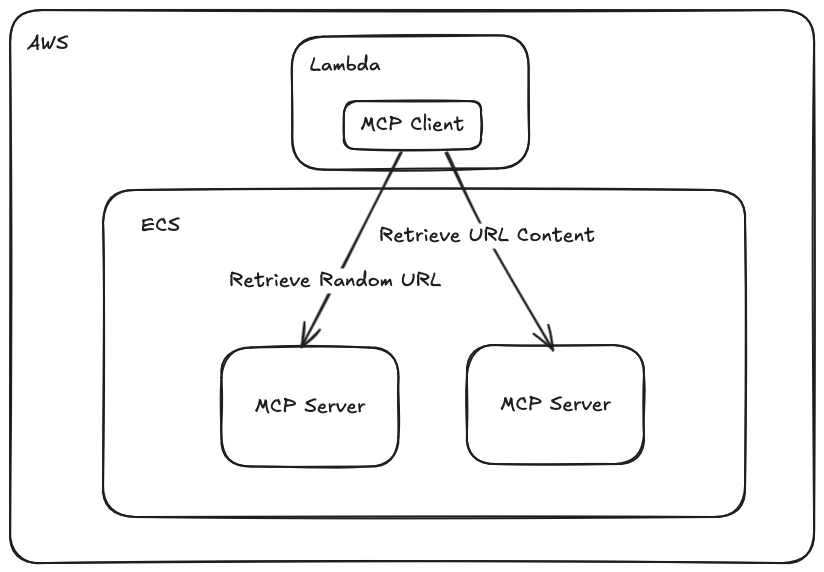
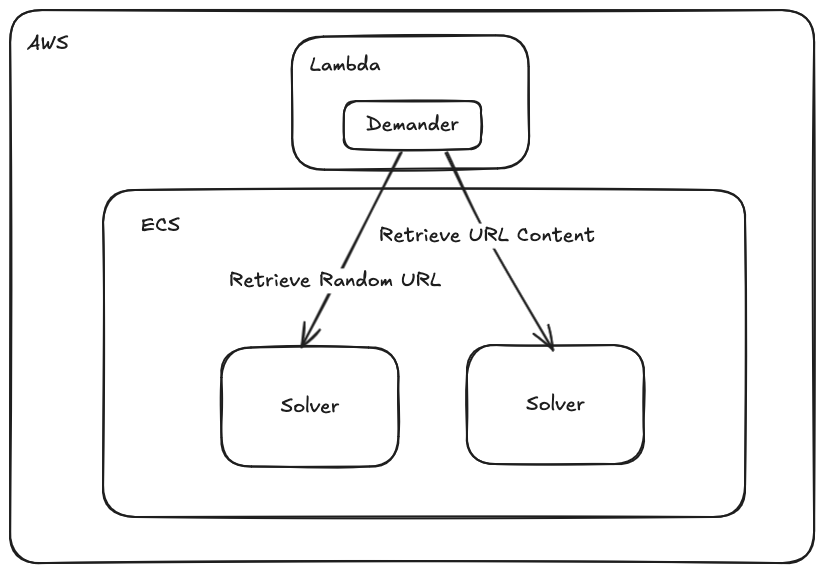
updating the blog

Changed region(s): [[0.3034, 0.6836, 0.4551, 0.743], [0.6068, 0.6836, 0.7282, 0.743], [0.4248, 0.208, 0.5765, 0.2378]]

diff --git a/index.html b/index.html
@@ -2,3 +2,6 @@
 layout: home
 # Index page
 ---
+
+
+

diff --git a/_posts/2025-03-24-mimicking-human-interactions.md b/_posts/2025-03-24-mimicking-human-interactions.md
@@ -8,23 +8,8 @@ image:
   alt: Mimicking Humans
 ---
 
-## Mimicking Human Interactions
 
-Welcome to my blog series where we'll explore how to build an agentic solution that mimics human daily interactions. In this series, we'll examine how complex human behaviors can emerge from simple rules of interaction between agents.
-Each chapter will introduce a concept or feeling and I will provide its implementation, showing how agent-based models can represent human-like interactions while maintaining simplicity at their core.
-
-Agent-based thinking, views social interactions as occurring when both parties prefer having them over not having them, with each seeking the form of interaction that ranks highest in their preferences.
-This approach isn't limited to monetary exchanges between strangers but extends to scientific collaborations, romantic relationships, and commitments to voluntary organizations - all captured by the same logical framework.
-
-As we progress through this series, we'll explore how agents can be designed with varying degrees of human-likeness, carefully selecting which features to faithfully match and which to deliberately omit.
-We'll examine how people naturally attempt to "naturalize" unfamiliar agents by integrating them into their existing frameworks of knowledge and expectations.
-This process of accommodation and adaptation reveals how humans test boundaries of commonly shared expectations to assign new entities a place within their familiar cognitive and practical order.
-
-By understanding these dynamics, we can create agent-based models composed of decision-making heuristics, non-linear interaction topologies, and learning rules that generate complex emergent behaviors from simple foundations.
-
-Join us as we decode the fascinating intersection of human behavior and artificial agency!
-
-### Journey Kick Off
+### Abstract
 
 In the world of complex systems, interactions between agents follow simple rules that lead to emergent behaviors and structures.
 Agent-based modeling represents a bottom-up approach where the richness of structures comes from these simple interaction rules.
@@ -41,6 +26,32 @@ Instead, they operate based on local information and short-term behavior, simila
 The beauty of this approach is that many previously intractable problems suddenly become accessible.
 By focusing on the interactional structure rather than the complexity of each individual agent, we can model various systems - from neurons in a brain to humans in a market - all understood as systems of interacting agents.
 This mimics how real-world social interactions occur, where both parties engage when it benefits them and seek interactions that align with their preferences.
+
+### Starting the journey
+
+
+The final outcome is to implement a natural daily challenge that we, as human beings usually have, such as scheduling a trip where we need to check the weather, hotels, recommendations, and have memory of past experiences.
+
+Our starting architecture creates a dynamic interaction where demanders form a one-to-one relationship with each solver, enabling continuous communication between them.
+This back-and-forth exchange allows solvers to provide specialized expertise and capabilities while maintaining their independent functions.
+The architecture establishes clear boundaries between different solvers, ensuring each can focus on their specific responsibilities without interference.
+Each solver operates with a dedicated purpose, offering unique resources and tools that contribute to the overall system while maintaining their autonomy.
+The host application manages these multiple relationships, coordinating how demanders connect with their respective solvers to create an integrated yet modular system.
+
+The beauty of this approach is in its simplicity. While the system itself is straightforward, it creates a foundation where each solver provides focused functionality in isolation, yet multiple solvers can be combined seamlessly through a shared protocol that enables interoperability. Just as primitive structures evolve to meet new needs, our architecture follows design principles where features can be added progressively as solvers and demanders evolve independently.
+
+In this first release, we are implementing a web content demander - a component that will request and receive information from solvers.
+
+¿Keep with me to see how this solution evolves!
+
+
+![Architecture](/assets/img/posts/mimicking-human-interactions/mimicking-humans-architecture.png)
+
+
+Follow all the implementation details yourself using this [github](https://www.google.com) repository
+
+
+
 
 ### Technology Stackset
 
@@ -59,26 +70,3 @@ The MCP Server implements the server-side of the protocol, responsible for expos
 - MCP functions like a USB-C port (*it has taken a while*) for AI applications, providing a standardized way to connect AI models to various data sources and tools.
 - MCP standardization helps applications provide context to LLMs through an open protocol. 
 - MCP provides a growing list of pre-built integrations that LLMs can directly plug into.
-
-
-
-
-### Inial Approach
-
-Our starting architecture works like this: we have a client that sends requests, and servers that respond with information.
-This back-and-forth creates a conversation where one part asks and another answers, much like how we naturally interact with our environment to get what we need.
-
-The beauty of this approach is in its simplicity. While the system itself is straightforward, it creates a foundation that can grow more complex over time.
-Just as primitive structures evolve to meet new needs, our architecture will develop additional components as we move forward.
-
-This interaction mimics how living things process information from their surroundings. Everything is present in the original, simple forms - a basic unit interacting with its environment, taking in what it needs.
-Our system follows this natural pattern, where the apparent complexity of behavior reflects the environment it operates in.
-
-As we continue building, we'll add more agents and components to handle increasingly complex interactions.
-This gradual evolution mirrors how simple local exchanges can eventually lead to more sophisticated systems and behaviors.
-
-
-![Architecture](/assets/img/posts/mimicking-human-interactions/mimicking-humans-architecture.png)
-
-
-Follow all the implementation details yourself using this [github](https://www.google.com) repository !!!

diff --git a/_posts/2025-03-22-welcome.md b/_posts/2025-03-22-welcome.md
@@ -1,0 +1,23 @@
+---
+title: "Welcome"
+date: "2025-03-22 00:00:00 +0100"
+categories: [Welcome]
+tags: [AI]
+pin: true
+---
+
+### Mimicking Human Interactions
+
+Welcome to my blog series where we'll explore how to build an agentic solution that mimics human daily interactions. In this series, we'll examine how complex human behaviors can emerge from simple rules of interaction between agents.
+Each chapter will introduce a concept or feeling and I will provide its implementation, showing how agent-based models can represent human-like interactions while maintaining simplicity at their core.
+
+Agent-based thinking, views social interactions as occurring when both parties prefer having them over not having them, with each seeking the form of interaction that ranks highest in their preferences.
+This approach isn't limited to monetary exchanges between strangers but extends to scientific collaborations, romantic relationships, and commitments to voluntary organizations - all captured by the same logical framework.
+
+As we progress through this series, we'll explore how agents can be designed with varying degrees of human-likeness, carefully selecting which features to faithfully match and which to deliberately omit.
+We'll examine how people naturally attempt to "naturalize" unfamiliar agents by integrating them into their existing frameworks of knowledge and expectations.
+This process of accommodation and adaptation reveals how humans test boundaries of commonly shared expectations to assign new entities a place within their familiar cognitive and practical order.
+
+By understanding these dynamics, we can create agent-based models composed of decision-making heuristics, non-linear interaction topologies, and learning rules that generate complex emergent behaviors from simple foundations.
+
+Join us as we decode the fascinating intersection of human behavior and artificial agency!
